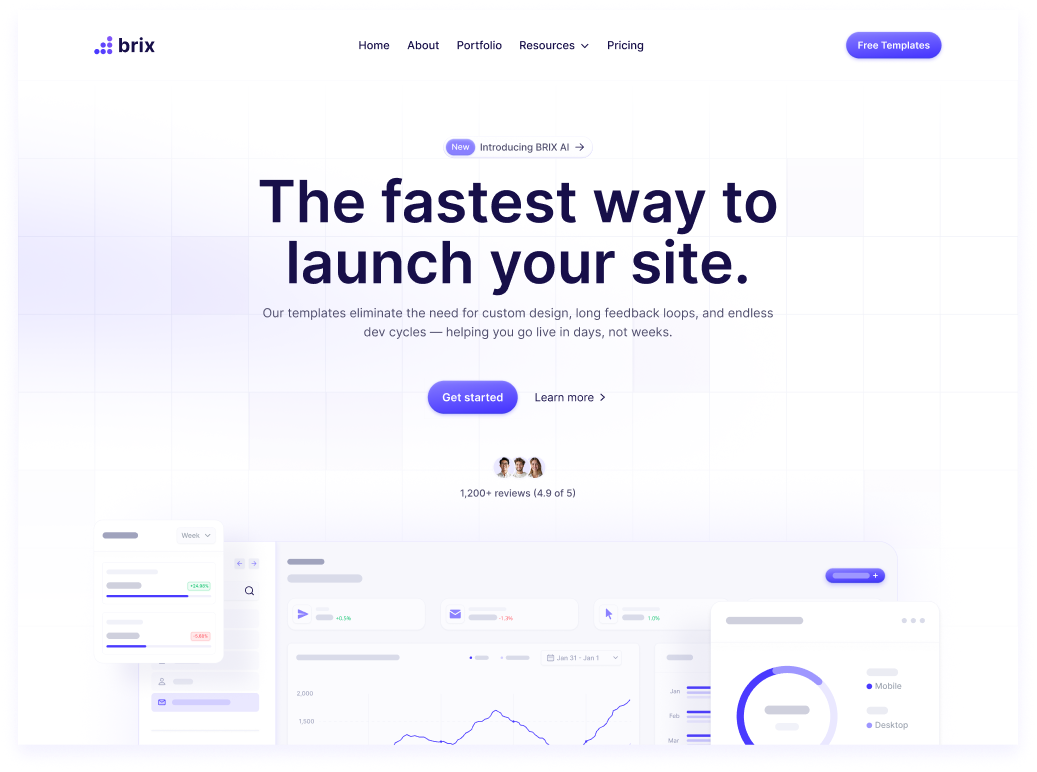
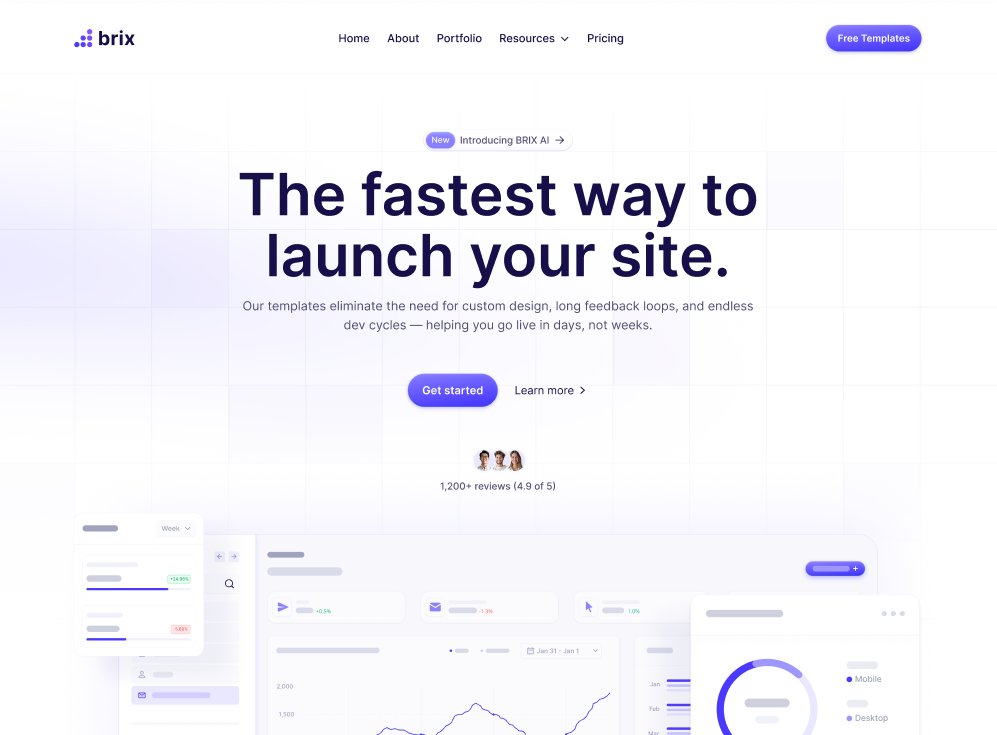
feat: implement experience section and configure path aliases for project components

diff --git a/src/components/ExperienceSection.tsx b/src/components/ExperienceSection.tsx
@@ -1,0 +1,245 @@
+import { Timeline } from "@/components/ui/timeline";
+import { FadeIn } from "./FadeIn";
+
+const experiences = [
+  {
+    title: "2024 – Present",
+    content: (
+      <div>
+        <div className="mb-6">
+          <h4 className="text-lg md:text-2xl font-semibold text-white mb-1">
+            Frontend Developer & UI/UX Designer
+          </h4>
+          <p className="text-sm md:text-base font-medium text-[#42fcff]/80 tracking-wide">
+            Arohon
+          </p>
+        </div>
+
+        <div className="flex flex-col gap-4">
+          <div className="group relative pl-5 border-l-2 border-[#7621B0]/30 hover:border-[#7621B0] transition-colors duration-300">
+            <div className="absolute left-[-5px] top-[6px] w-2 h-2 rounded-full bg-[#7621B0] group-hover:shadow-[0_0_8px_#7621B0] transition-shadow duration-300" />
+            <p className="text-sm md:text-base text-[#D7E2EA]/80 leading-relaxed">
+              <span className="text-white font-medium">
+                Architected scalable web applications:
+              </span>{" "}
+              Engineered highly responsive and performant applications utilizing
+              React, Next.js, TypeScript, Tailwind CSS, and ShadCN.
+            </p>
+          </div>
+
+          <div className="group relative pl-5 border-l-2 border-[#7621B0]/30 hover:border-[#7621B0] transition-colors duration-300">
+            <div className="absolute left-[-5px] top-[6px] w-2 h-2 rounded-full bg-[#7621B0] group-hover:shadow-[0_0_8px_#7621B0] transition-shadow duration-300" />
+            <p className="text-sm md:text-base text-[#D7E2EA]/80 leading-relaxed">
+              <span className="text-white font-medium">
+                Bridged design and development:
+              </span>{" "}
+              Translated complex business requirements into intuitive wireframes
+              and high-fidelity prototypes using Figma and Adobe XD, seamlessly
+              guiding them from concept to code implementation.
+            </p>
+          </div>
+
+          <div className="group relative pl-5 border-l-2 border-[#7621B0]/30 hover:border-[#7621B0] transition-colors duration-300">
+            <div className="absolute left-[-5px] top-[6px] w-2 h-2 rounded-full bg-[#7621B0] group-hover:shadow-[0_0_8px_#7621B0] transition-shadow duration-300" />
+            <p className="text-sm md:text-base text-[#D7E2EA]/80 leading-relaxed">
+              <span className="text-white font-medium">
+                Driven product quality:
+              </span>{" "}
+              Spearheaded comprehensive QA and exploratory testing protocols,
+              proactively identifying and resolving critical UX and functional
+              anomalies prior to deployment to ensure a flawless user experience.
+            </p>
+          </div>
+        </div>
+
+        {/* Tech stack pills */}
+        <div className="flex flex-wrap gap-2 mt-6">
+          {["React", "Next.js", "TypeScript", "Tailwind CSS", "ShadCN", "Figma", "Adobe XD"].map(
+            (tech) => (
+              <span
+                key={tech}
+                className="px-3 py-1 text-xs font-medium rounded-full bg-[#7621B0]/10 border border-[#7621B0]/20 text-[#D7E2EA]/70 hover:bg-[#7621B0]/20 hover:border-[#7621B0]/40 transition-all duration-300"
+              >
+                {tech}
+              </span>
+            )
+          )}
+        </div>
+      </div>
+    ),
+  },
+  {
+    title: "2023 – 2024",
+    content: (
+      <div>
+        <div className="mb-6">
+          <h4 className="text-lg md:text-2xl font-semibold text-white mb-1">
+            Frontend Developer, UI/UX Designer & QA Tester
+          </h4>
+          <p className="text-sm md:text-base font-medium text-[#42fcff]/80 tracking-wide">
+            Flexlab Studio{" "}
+            <span className="text-[#D7E2EA]/40 font-normal">
+              · Dhaka, Bangladesh
+            </span>
+          </p>
+        </div>
+
+        <div className="flex flex-col gap-4">
+          <div className="group relative pl-5 border-l-2 border-[#42fcff]/20 hover:border-[#42fcff]/60 transition-colors duration-300">
+            <div className="absolute left-[-5px] top-[6px] w-2 h-2 rounded-full bg-[#42fcff]/60 group-hover:shadow-[0_0_8px_#42fcff] transition-shadow duration-300" />
+            <p className="text-sm md:text-base text-[#D7E2EA]/80 leading-relaxed">
+              <span className="text-white font-medium">
+                Built dynamic user interfaces:
+              </span>{" "}
+              Developed responsive web interfaces and streamlined user
+              experiences using modern front-end tech stacks like React and
+              Next.js.
+            </p>
+          </div>
+
+          <div className="group relative pl-5 border-l-2 border-[#42fcff]/20 hover:border-[#42fcff]/60 transition-colors duration-300">
+            <div className="absolute left-[-5px] top-[6px] w-2 h-2 rounded-full bg-[#42fcff]/60 group-hover:shadow-[0_0_8px_#42fcff] transition-shadow duration-300" />
+            <p className="text-sm md:text-base text-[#D7E2EA]/80 leading-relaxed">
+              <span className="text-white font-medium">
+                Delivered end-to-end design:
+              </span>{" "}
+              Designed high-fidelity UI mockups and interactive prototypes in
+              Figma, ensuring strict alignment with client specifications and
+              project goals.
+            </p>
+          </div>
+
+          <div className="group relative pl-5 border-l-2 border-[#42fcff]/20 hover:border-[#42fcff]/60 transition-colors duration-300">
+            <div className="absolute left-[-5px] top-[6px] w-2 h-2 rounded-full bg-[#42fcff]/60 group-hover:shadow-[0_0_8px_#42fcff] transition-shadow duration-300" />
+            <p className="text-sm md:text-base text-[#D7E2EA]/80 leading-relaxed">
+              <span className="text-white font-medium">
+                Optimized usability:
+              </span>{" "}
+              Conducted thorough exploratory testing and quality assurance
+              checks, significantly reducing post-release bugs and improving
+              overall site functionality.
+            </p>
+          </div>
+        </div>
+
+        <div className="flex flex-wrap gap-2 mt-6">
+          {["React", "Next.js", "Figma", "QA Testing", "Prototyping"].map(
+            (tech) => (
+              <span
+                key={tech}
+                className="px-3 py-1 text-xs font-medium rounded-full bg-[#42fcff]/5 border border-[#42fcff]/15 text-[#D7E2EA]/70 hover:bg-[#42fcff]/10 hover:border-[#42fcff]/30 transition-all duration-300"
+              >
+                {tech}
+              </span>
+            )
+          )}
+        </div>
+      </div>
+    ),
+  },
+  {
+    title: "2018 – 2022",
+    content: (
+      <div>
+        <div className="mb-6">
+          <h4 className="text-lg md:text-2xl font-semibold text-white mb-1">
+            UI/UX Designer & QA Tester
+          </h4>
+          <p className="text-sm md:text-base font-medium text-[#42fcff]/80 tracking-wide">
+            ARUX Studio{" "}
+            <span className="text-[#D7E2EA]/40 font-normal">
+              · Dhaka, Bangladesh
+            </span>
+          </p>
+        </div>
+
+        <div className="flex flex-col gap-4">
+          <div className="group relative pl-5 border-l-2 border-[#BBCCD7]/20 hover:border-[#BBCCD7]/50 transition-colors duration-300">
+            <div className="absolute left-[-5px] top-[6px] w-2 h-2 rounded-full bg-[#BBCCD7]/50 group-hover:shadow-[0_0_8px_#BBCCD7] transition-shadow duration-300" />
+            <p className="text-sm md:text-base text-[#D7E2EA]/80 leading-relaxed">
+              <span className="text-white font-medium">
+                Crafted user-centered products:
+              </span>{" "}
+              Designed intuitive interfaces and interactive prototypes for a
+              diverse portfolio of web and mobile applications, serving both
+              local and international clients.
+            </p>
+          </div>
+
+          <div className="group relative pl-5 border-l-2 border-[#BBCCD7]/20 hover:border-[#BBCCD7]/50 transition-colors duration-300">
+            <div className="absolute left-[-5px] top-[6px] w-2 h-2 rounded-full bg-[#BBCCD7]/50 group-hover:shadow-[0_0_8px_#BBCCD7] transition-shadow duration-300" />
+            <p className="text-sm md:text-base text-[#D7E2EA]/80 leading-relaxed">
+              <span className="text-white font-medium">
+                Enhanced user flows:
+              </span>{" "}
+              Facilitated usability testing and user feedback sessions, directly
+              improving task completion rates and eliminating friction in
+              critical user journeys.
+            </p>
+          </div>
+
+          <div className="group relative pl-5 border-l-2 border-[#BBCCD7]/20 hover:border-[#BBCCD7]/50 transition-colors duration-300">
+            <div className="absolute left-[-5px] top-[6px] w-2 h-2 rounded-full bg-[#BBCCD7]/50 group-hover:shadow-[0_0_8px_#BBCCD7] transition-shadow duration-300" />
+            <p className="text-sm md:text-base text-[#D7E2EA]/80 leading-relaxed">
+              <span className="text-white font-medium">
+                Collaborated across teams:
+              </span>{" "}
+              Worked closely with engineering teams to ensure design feasibility
+              and maintain pixel-perfect accuracy from initial concept through
+              production deployment.
+            </p>
+          </div>
+        </div>
+
+        <div className="flex flex-wrap gap-2 mt-6">
+          {[
+            "UI/UX Design",
+            "Prototyping",
+            "Usability Testing",
+            "QA",
+            "Cross-team Collaboration",
+          ].map((tech) => (
+            <span
+              key={tech}
+              className="px-3 py-1 text-xs font-medium rounded-full bg-[#BBCCD7]/5 border border-[#BBCCD7]/15 text-[#D7E2EA]/70 hover:bg-[#BBCCD7]/10 hover:border-[#BBCCD7]/30 transition-all duration-300"
+            >
+              {tech}
+            </span>
+          ))}
+        </div>
+      </div>
+    ),
+  },
+];
+
+export function ExperienceSection() {
+  return (
+    <section
+      id="experience"
+      className="bg-[#0C0C0C] px-5 sm:px-8 md:px-10 py-20 sm:py-24 md:py-32 relative"
+    >
+      <FadeIn delay={0} y={40}>
+        <h2
+          className="hero-heading font-black uppercase text-center mb-10 sm:mb-14 md:mb-20 leading-none"
+          style={{ fontSize: "clamp(3rem, 12vw, 160px)" }}
+        >
+          Experience
+        </h2>
+      </FadeIn>
+
+      <FadeIn delay={0.15} y={30}>
+        <p
+          className="text-[#D7E2EA]/60 font-light text-center max-w-xl mx-auto mb-10 md:mb-16 leading-relaxed"
+          style={{ fontSize: "clamp(0.9rem, 1.6vw, 1.2rem)" }}
+        >
+          A journey through the companies and roles that shaped my craft —
+          from pixel-perfect designs to production-ready code.
+        </p>
+      </FadeIn>
+
+      <div className="relative w-full overflow-clip">
+        <Timeline data={experiences} />
+      </div>
+    </section>
+  );
+}

diff --git a/src/components/ui/timeline.tsx b/src/components/ui/timeline.tsx
@@ -1,0 +1,79 @@
+"use client";
+import {
+  useScroll,
+  useTransform,
+  motion,
+} from "framer-motion";
+import React, { useEffect, useRef, useState } from "react";
+
+interface TimelineEntry {
+  title: string;
+  content: React.ReactNode;
+}
+
+export const Timeline = ({ data }: { data: TimelineEntry[] }) => {
+  const ref = useRef<HTMLDivElement>(null);
+  const containerRef = useRef<HTMLDivElement>(null);
+  const [height, setHeight] = useState(0);
+
+  useEffect(() => {
+    if (ref.current) {
+      const rect = ref.current.getBoundingClientRect();
+      setHeight(rect.height);
+    }
+  }, [ref]);
+
+  const { scrollYProgress } = useScroll({
+    target: containerRef,
+    offset: ["start 10%", "end 50%"],
+  });
+
+  const heightTransform = useTransform(scrollYProgress, [0, 1], [0, height]);
+  const opacityTransform = useTransform(scrollYProgress, [0, 0.1], [0, 1]);
+
+  return (
+    <div
+      className="w-full font-sans"
+      ref={containerRef}
+    >
+      <div ref={ref} className="relative max-w-5xl mx-auto pb-20">
+        {data.map((item, index) => (
+          <div
+            key={index}
+            className="flex justify-start pt-10 md:pt-28 md:gap-10"
+          >
+            <div className="sticky flex flex-col md:flex-row z-40 items-center top-40 self-start max-w-xs lg:max-w-sm md:w-full">
+              <div className="h-10 absolute left-3 md:left-3 w-10 rounded-full bg-[#0C0C0C] flex items-center justify-center">
+                <div className="h-4 w-4 rounded-full bg-[#1a1a2e] border border-[#7621B0]/40 p-2" />
+              </div>
+              <h3 className="hidden md:block text-xl md:pl-20 md:text-4xl font-bold text-[#D7E2EA]/50">
+                {item.title}
+              </h3>
+            </div>
+
+            <div className="relative pl-20 pr-4 md:pl-4 w-full">
+              <h3 className="md:hidden block text-2xl mb-4 text-left font-bold text-[#D7E2EA]/50">
+                {item.title}
+              </h3>
+              {item.content}{" "}
+            </div>
+          </div>
+        ))}
+        <div
+          style={{
+            height: height + "px",
+          }}
+          className="absolute md:left-8 left-8 top-0 overflow-hidden w-[2px] bg-[linear-gradient(to_bottom,var(--tw-gradient-stops))] from-transparent from-[0%] via-[#D7E2EA]/10 to-transparent to-[99%] [mask-image:linear-gradient(to_bottom,transparent_0%,black_10%,black_90%,transparent_100%)]"
+        >
+          <motion.div
+            style={{
+              height: heightTransform,
+              opacity: opacityTransform,
+            }}
+            className="absolute inset-x-0 top-0 w-[2px] bg-gradient-to-t from-[#7621B0] via-[#42fcff] to-transparent from-[0%] via-[10%] rounded-full"
+          />
+        </div>
+      </div>
+    </div>
+  );
+};

diff --git a/src/components/HeroSection.tsx b/src/components/HeroSection.tsx
@@ -57,6 +57,12 @@ export function HeroSection() {
             Projects
           </a>
           <a
+            href="#experience"
+            className="hover:opacity-70 transition-opacity duration-200"
+          >
+            Experience
+          </a>
+          <a
             href="#contact"
             className="hover:opacity-70 transition-opacity duration-200"
           >

diff --git a/vite.config.ts b/vite.config.ts
@@ -1,8 +1,14 @@
 import { defineConfig } from 'vite'
 import react from '@vitejs/plugin-react'
 import tailwindcss from '@tailwindcss/vite'
+import path from 'path'
 
 // https://vite.dev/config/
 export default defineConfig({
   plugins: [react(), tailwindcss()],
+  resolve: {
+    alias: {
+      '@': path.resolve(__dirname, './src'),
+    },
+  },
 })

diff --git a/src/App.tsx b/src/App.tsx
@@ -4,6 +4,7 @@ import { MarqueeSection } from './components/MarqueeSection'
 import { AboutSection } from './components/AboutSection'
 import { ServicesSection } from './components/ServicesSection'
 import { ProjectsSection } from './components/ProjectsSection'
+import { ExperienceSection } from './components/ExperienceSection'
 import { Footer } from './components/Footer'
 
 function App() {
@@ -14,6 +15,7 @@ function App() {
       <AboutSection />
       <ServicesSection />
       <ProjectsSection />
+      <ExperienceSection />
       <Footer />
     </main>
   )